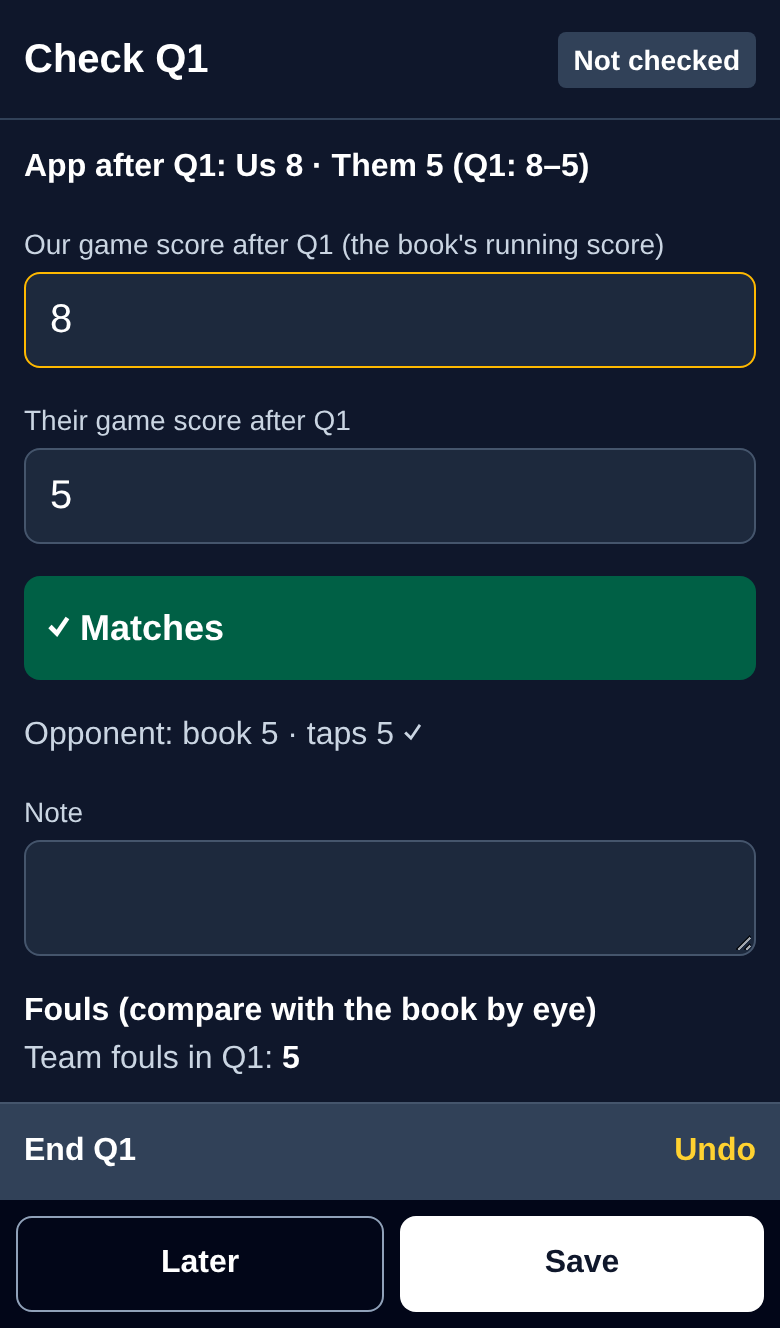
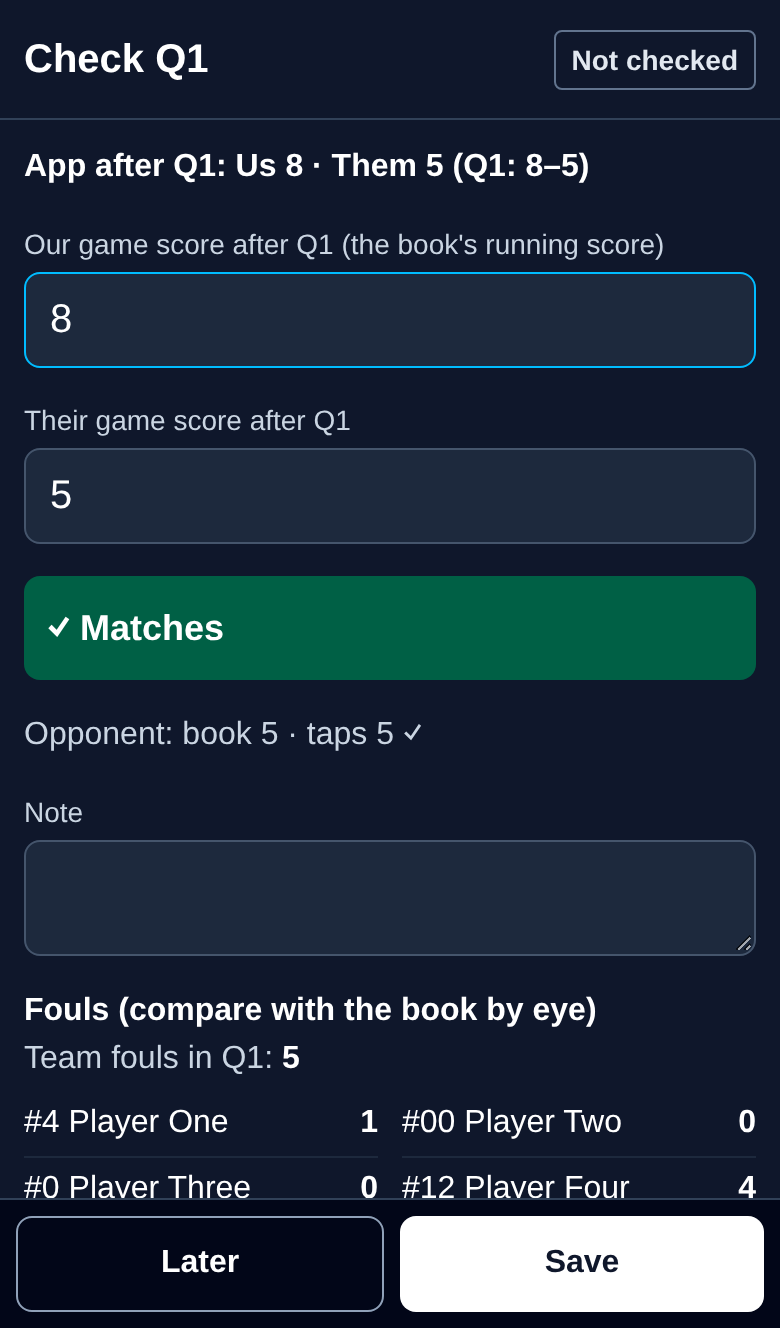
Release v0.6.0

diff --git a/CHANGELOG.md b/CHANGELOG.md
@@ -5,6 +5,8 @@ All notable changes to Bench Book are listed here, in the
 
 ## [Unreleased]
 
+## [0.6.0] - 2026-11-16
+
 - Colors have one job each. Amber now only warns (4 fouls, the bonus, a check that doesn't match, a file not saved). The action to take is blue: End Q1, Check, Undo, Redo, and the Check chip after a quarter. End Q4 and OT stay red. A player's first three fouls show as gray dots, turning amber at the 4th.
 - Start game and the new-game screen's main button are white, like every other main button.
 - The Final score shows one team per row with its score at the right, so a long team name wraps inside its own row instead of splitting the score.
